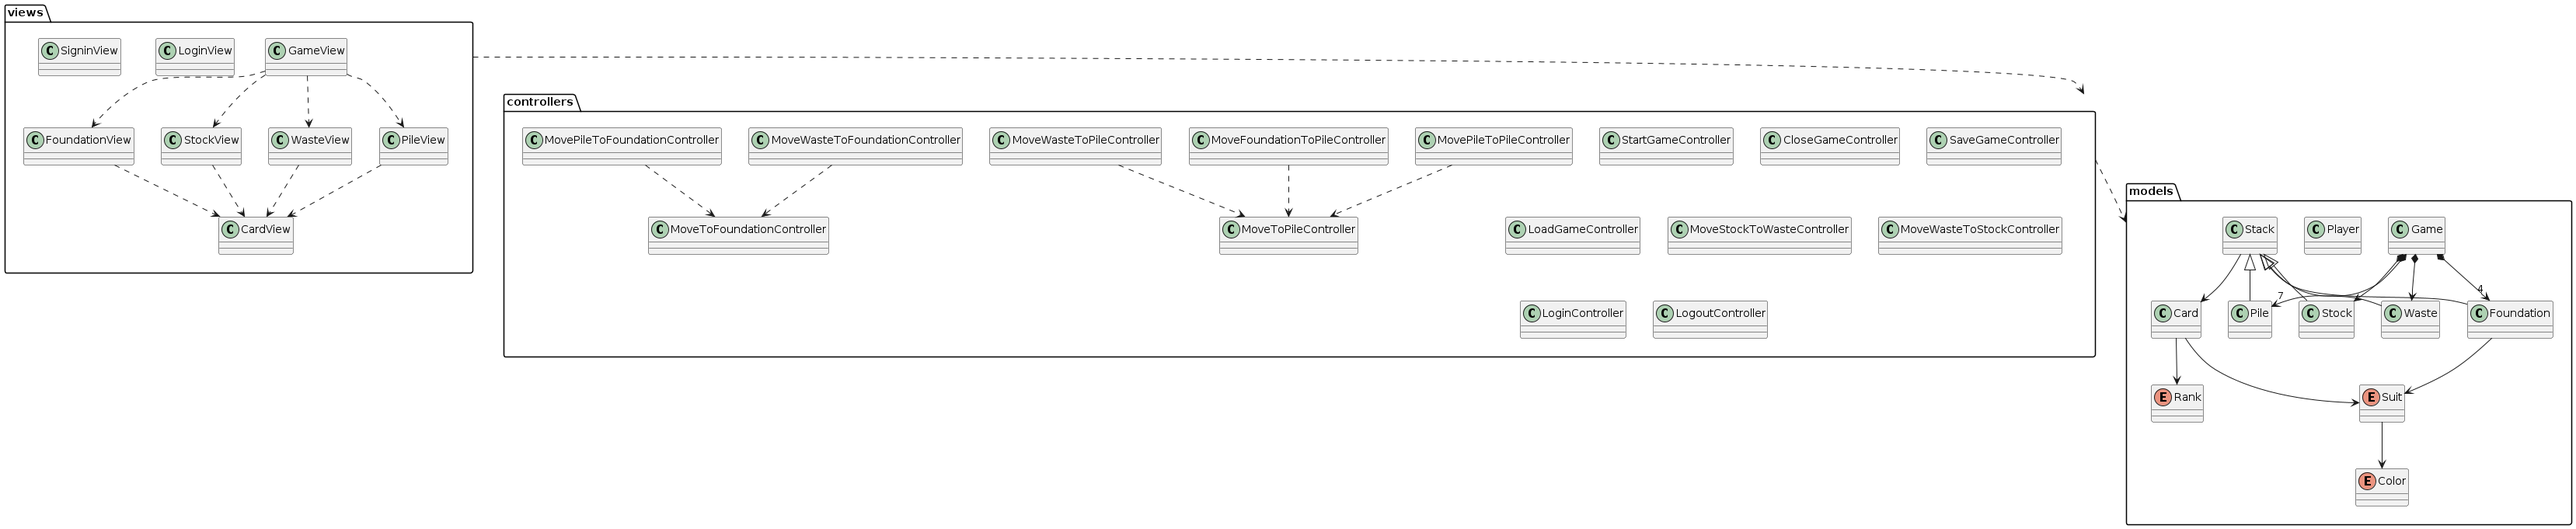
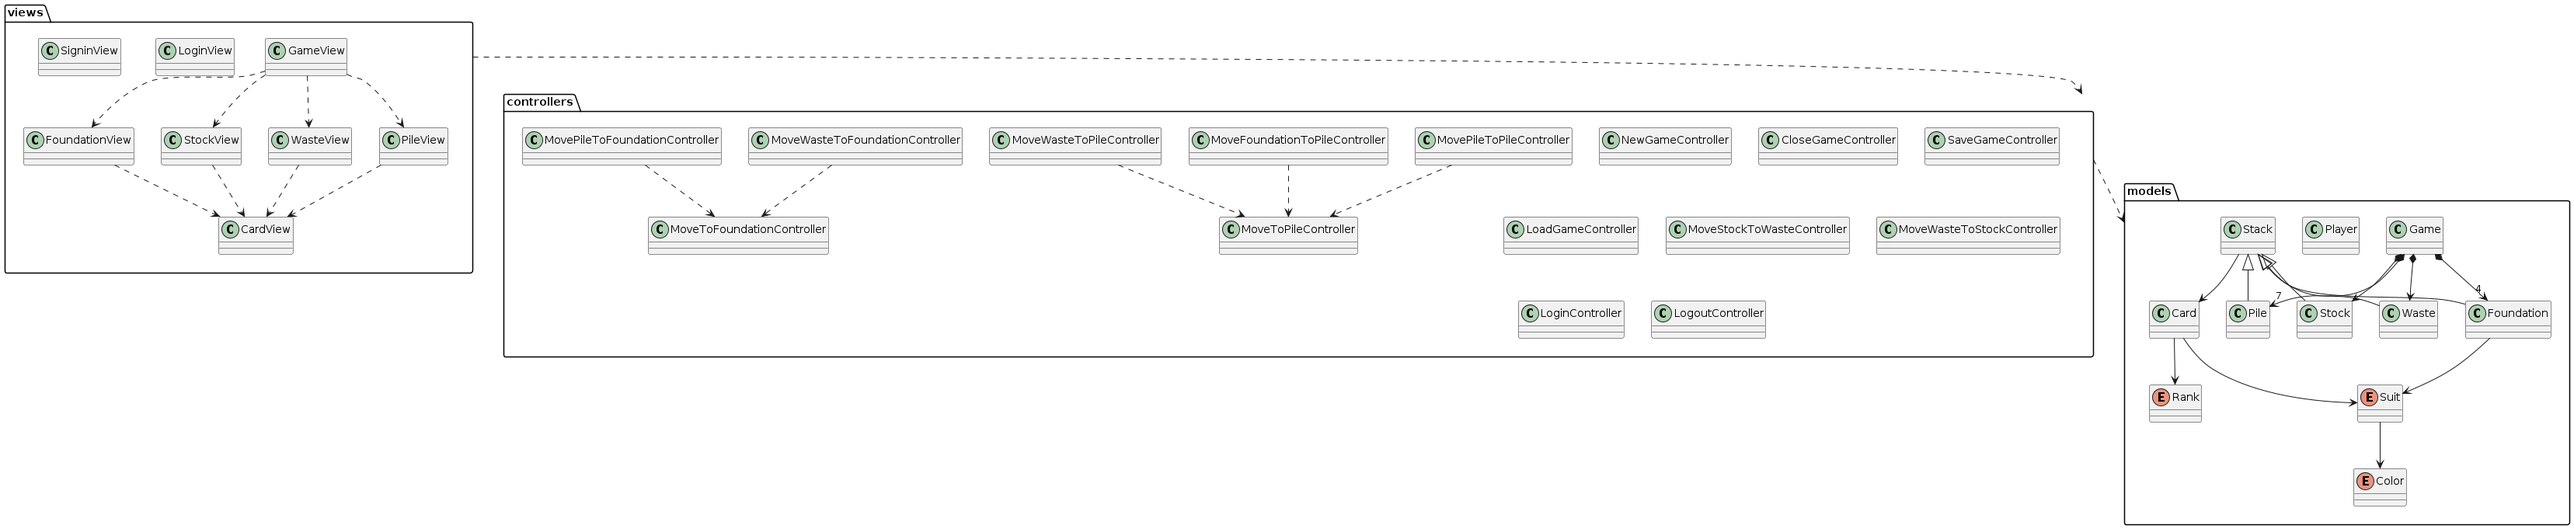
Add useCase analisis Login, NewGame, SaveGame

diff --git a/P1-Klondike.md b/P1-Klondike.md
@@ -17,7 +17,7 @@ Marina Sayols y Álvaro Tango
   + [Prototipado Interfaces](#prototipado-interfaces)
 * [Análisis](#an-lisis)
   + [Análisis de Arquitectura](#an-lisis-de-arquitectura)
-  + [<span style="color:red">Análisis de Casos de Uso</span>](#an-lisis-de-casos-de-uso)
+  + [Análisis de Casos de Uso](#an-lisis-de-casos-de-uso)
 
 ## Modelo del Dominio
 
